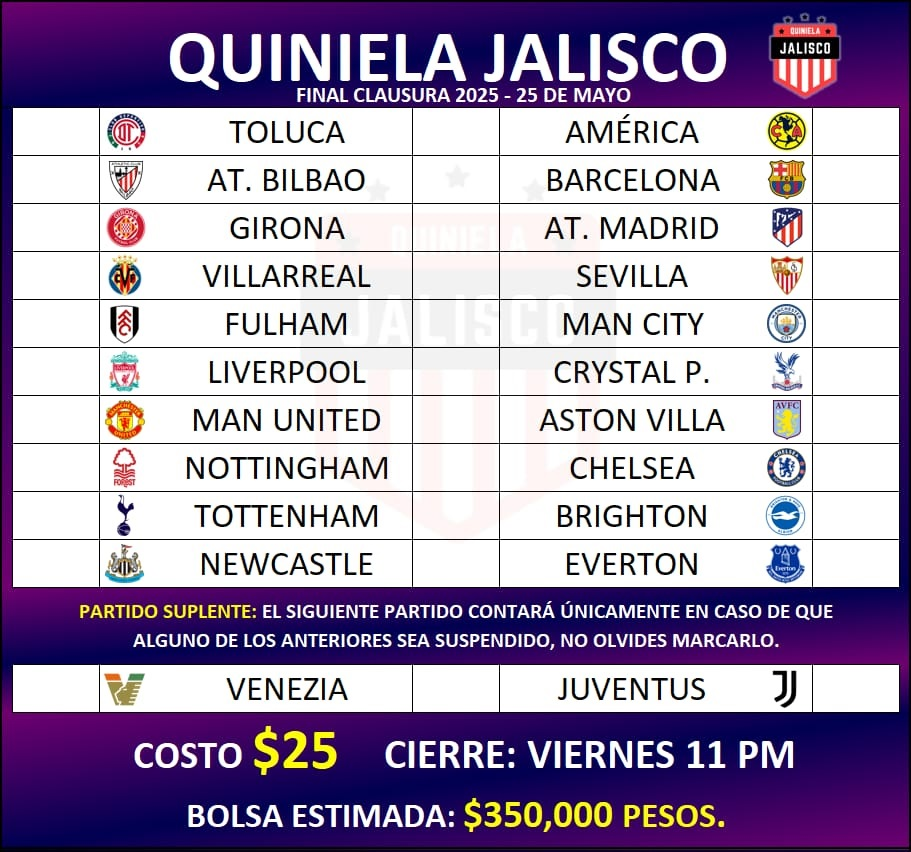
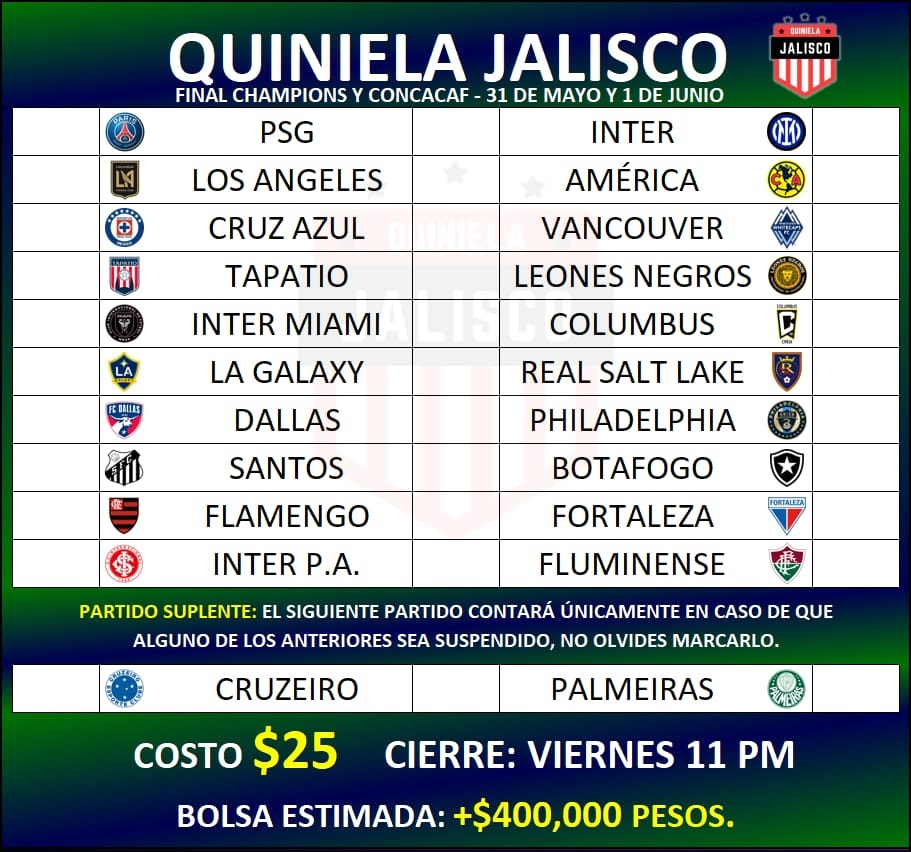
Final concachampions

diff --git a/11/styles11.css b/11/styles11.css
@@ -95,8 +95,8 @@ body{
     margin-top: 8.5%;
     border-top: solid 1px black;
     border-radius: 0 0 14px 14px;
-    background: -webkit-linear-gradient(0.49turn, rgb(64 1 98) -7%, rgb(0 4 86) 80%);
-    background: linear-gradient(0.49turn, rgb(64 1 98) -7%, rgb(0 4 86) 80%);
+    background: -webkit-linear-gradient(0.49turn, rgb(0, 54,44) -7%, rgb(0 4 86) 80%);
+    background: linear-gradient(0.49turn, rgb(0, 54,44) -7%, rgb(0 4 86) 80%);
 }
 
 .text-lg{
@@ -293,7 +293,7 @@ h6{
 }
 
 #cantidad:before{
-    content:'$350,000 pesos';
+    content:'$400,000 pesos';
     color: yellow;
     white-space:pre;
 }
